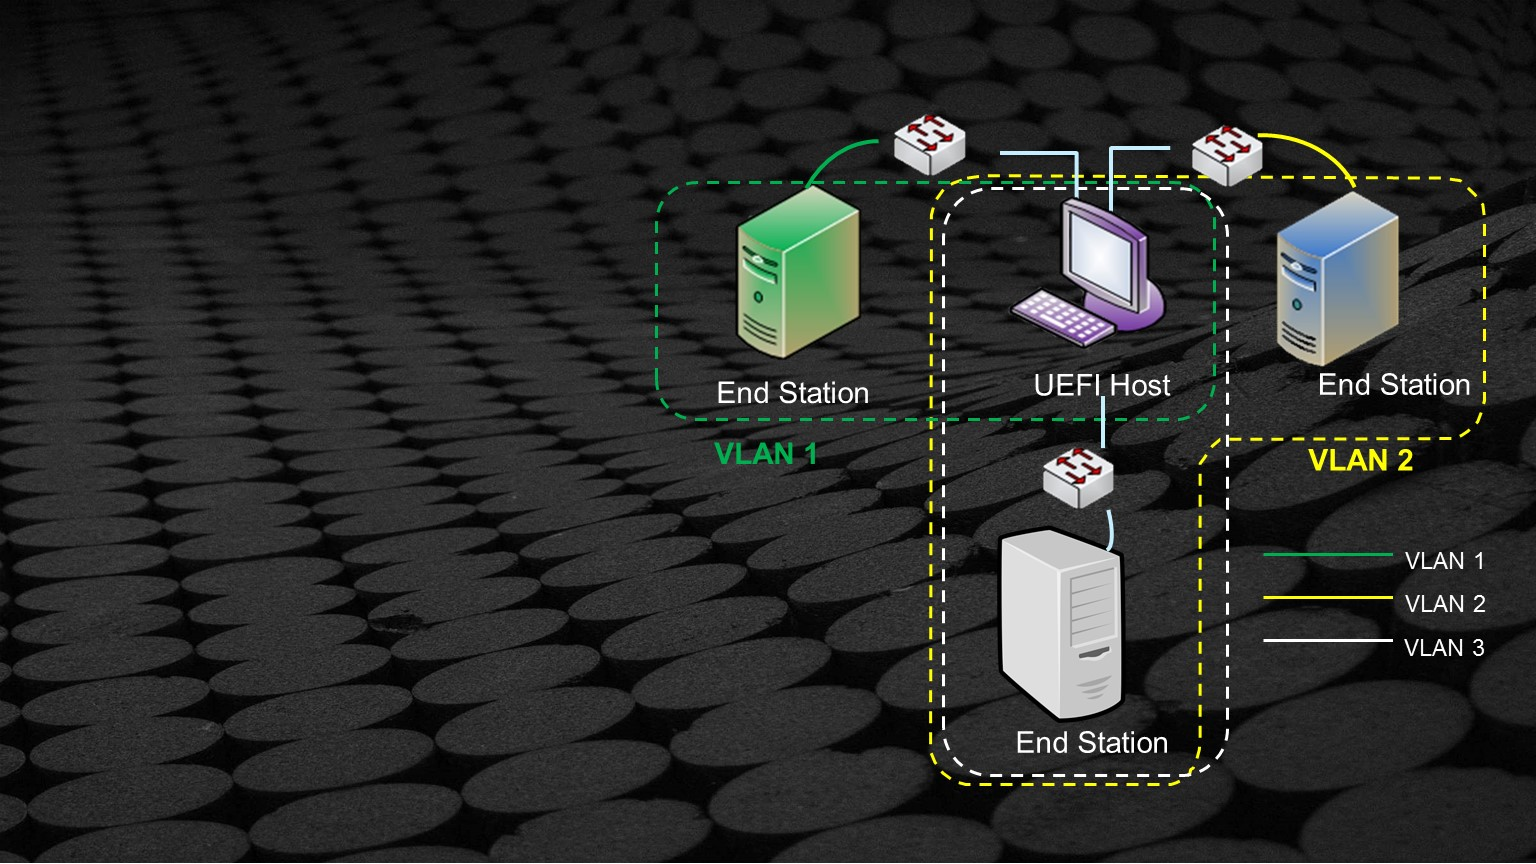
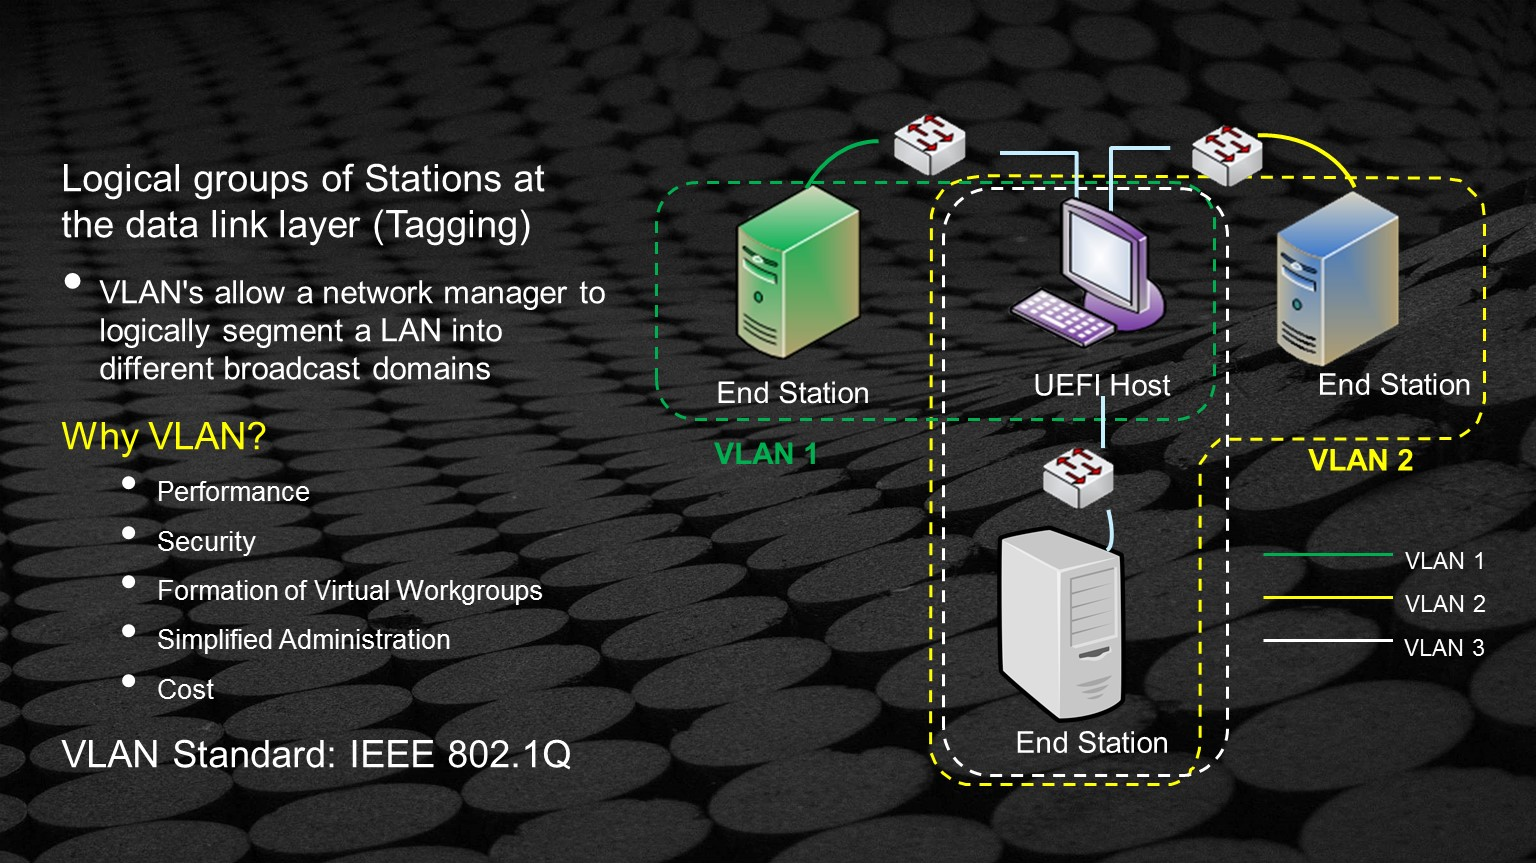
Signed-off-by: Laurie0131 <laurie.jarlstrom@intel.com>

diff --git a/PITCHME.md b/PITCHME.md
@@ -558,26 +558,11 @@ ports.
 <!-- .slide: data-transition="none" -->
 @title[Virtual LAN  - VLAN 02]
 <p align="center"><span class="gold" ><b>Virtual LAN  - VLAN</b></span></p>
-<div class="left-1">
-<ul>
- <li><span style="font-size:0.7em" >Logical groups of Stations at the data link layer (Tagging)</span></li>
-  <ul>
-    <li><span style="font-size:0.6em" >VLAN's allow a network manager to logically segment a LAN into different broadcast domains  : <a href="http://www.cse.wustl.edu/~jain/cis788-97/ftp/virtual_lans/#WhatVLAN">Link</a> </span></li>
-  </ul>
- <li><span style="font-size:0.7em" >Why VLAN?</span></li>
-  <ul>
-     <li><span style="font-size:0.6em" >Performance</span></li>
-     <li><span style="font-size:0.6em" >Security</span></li>
-     <li><span style="font-size:0.6em" >Formation of Virtual Workgroups</span></li>
-     <li><span style="font-size:0.6em" >Simplified Administration</span></li>
-     <li><span style="font-size:0.6em" >Cost</span></li>
-  </ul>
- <li><span style="font-size:0.7em" >VLAN Standard: IEEE 802.1Q </span></li>
-</ul>
-</div>
-<div class="right-1">
-<span style="font-size:0.8em" >&nbsp;  </span>
-</div>
+<br>
+<br>
+<br>
+<span style="font-size:0.6em" >&nbsp; &nbsp; &nbsp; &nbsp; &nbsp; &nbsp; &nbsp; &nbsp; &nbsp; &nbsp; &nbsp; &nbsp; &nbsp; &nbsp; &nbsp; &nbsp; &nbsp;&nbsp; &nbsp; &nbsp; &nbsp; &nbsp; &nbsp; &nbsp; &nbsp; &nbsp; <a href="http://www.cse.wustl.edu/~jain/cis788-97/ftp/virtual_lans/#WhatVLAN">Link</a> </span>
+
 
 Note:
 
@@ -588,26 +573,11 @@ Note:
 <!-- .slide: data-transition="none" -->
 @title[Virtual LAN  - VLAN 03]
 <p align="center"><span class="gold" ><b>Virtual LAN  - VLAN</b></span></p>
-<div class="left-1">
-<ul>
- <li><span style="font-size:0.7em" >Logical groups of Stations at the data link layer (Tagging)</span></li>
-  <ul>
-    <li><span style="font-size:0.6em" >VLAN's allow a network manager to logically segment a LAN into different broadcast domains  : <a href="http://www.cse.wustl.edu/~jain/cis788-97/ftp/virtual_lans/#WhatVLAN">Link</a> </span></li>
-  </ul>
- <li><span style="font-size:0.7em" >Why VLAN?</span></li>
-  <ul>
-     <li><span style="font-size:0.6em" >Performance</span></li>
-     <li><span style="font-size:0.6em" >Security</span></li>
-     <li><span style="font-size:0.6em" >Formation of Virtual Workgroups</span></li>
-     <li><span style="font-size:0.6em" >Simplified Administration</span></li>
-     <li><span style="font-size:0.6em" >Cost</span></li>
-  </ul>
- <li><span style="font-size:0.7em" >VLAN Standard: IEEE 802.1Q </span></li>
-</ul>
-</div>
-<div class="right-1">
-<span style="font-size:0.8em" >&nbsp;  </span>
-</div>
+<br>
+<br>
+<br>
+<span style="font-size:0.6em" >&nbsp; &nbsp; &nbsp; &nbsp; &nbsp; &nbsp; &nbsp; &nbsp; &nbsp; &nbsp; &nbsp; &nbsp; &nbsp; &nbsp; &nbsp; &nbsp; &nbsp;&nbsp; &nbsp; &nbsp; &nbsp; &nbsp; &nbsp; &nbsp; &nbsp; &nbsp; <a href="http://www.cse.wustl.edu/~jain/cis788-97/ftp/virtual_lans/#WhatVLAN">Link</a> </span>
+
 
 Note:
 
@@ -618,26 +588,12 @@ Note:
 <!-- .slide: data-transition="none" -->
 @title[Virtual LAN  - VLAN 04]
 <p align="center"><span class="gold" ><b>Virtual LAN  - VLAN</b></span></p>
-<div class="left-1">
-<ul>
- <li><span style="font-size:0.7em" >Logical groups of Stations at the data link layer (Tagging)</span></li>
-  <ul>
-    <li><span style="font-size:0.6em" >VLAN's allow a network manager to logically segment a LAN into different broadcast domains  : <a href="http://www.cse.wustl.edu/~jain/cis788-97/ftp/virtual_lans/#WhatVLAN">Link</a> </span></li>
-  </ul>
- <li><span style="font-size:0.7em" >Why VLAN?</span></li>
-  <ul>
-     <li><span style="font-size:0.6em" >Performance</span></li>
-     <li><span style="font-size:0.6em" >Security</span></li>
-     <li><span style="font-size:0.6em" >Formation of Virtual Workgroups</span></li>
-     <li><span style="font-size:0.6em" >Simplified Administration</span></li>
-     <li><span style="font-size:0.6em" >Cost</span></li>
-  </ul>
- <li><span style="font-size:0.7em" >VLAN Standard: IEEE 802.1Q </span></li>
-</ul>
-</div>
-<div class="right-1">
-<span style="font-size:0.8em" >&nbsp;  </span>
-</div>
+<br>
+<br>
+<br>
+<span style="font-size:0.6em" >&nbsp; &nbsp; &nbsp; &nbsp; &nbsp; &nbsp; &nbsp; &nbsp; &nbsp; &nbsp; &nbsp; &nbsp; &nbsp; &nbsp; &nbsp; &nbsp; &nbsp;&nbsp; &nbsp; &nbsp; &nbsp; &nbsp; &nbsp; &nbsp; &nbsp; &nbsp; <a href="http://www.cse.wustl.edu/~jain/cis788-97/ftp/virtual_lans/#WhatVLAN">Link</a> </span>
+
+
 
 Note:
 
@@ -648,26 +604,12 @@ Note:
 <!-- .slide: data-transition="none" -->
 @title[Virtual LAN  - VLAN 05]
 <p align="center"><span class="gold" ><b>Virtual LAN  - VLAN</b></span></p>
-<div class="left-1">
-<ul>
- <li><span style="font-size:0.7em" >Logical groups of Stations at the data link layer (Tagging)</span></li>
-  <ul>
-    <li><span style="font-size:0.6em" >VLAN's allow a network manager to logically segment a LAN into different broadcast domains  : <a href="http://www.cse.wustl.edu/~jain/cis788-97/ftp/virtual_lans/#WhatVLAN">Link</a> </span></li>
-  </ul>
- <li><span style="font-size:0.7em" >Why VLAN?</span></li>
-  <ul>
-     <li><span style="font-size:0.6em" >Performance</span></li>
-     <li><span style="font-size:0.6em" >Security</span></li>
-     <li><span style="font-size:0.6em" >Formation of Virtual Workgroups</span></li>
-     <li><span style="font-size:0.6em" >Simplified Administration</span></li>
-     <li><span style="font-size:0.6em" >Cost</span></li>
-  </ul>
- <li><span style="font-size:0.7em" >VLAN Standard: IEEE 802.1Q </span></li>
-</ul>
-</div>
-<div class="right-1">
-<span style="font-size:0.8em" >&nbsp;  </span>
-</div>
+<br>
+<br>
+<br>
+<span style="font-size:0.6em" >&nbsp; &nbsp; &nbsp; &nbsp; &nbsp; &nbsp; &nbsp; &nbsp; &nbsp; &nbsp; &nbsp; &nbsp; &nbsp; &nbsp; &nbsp; &nbsp; &nbsp;&nbsp; &nbsp; &nbsp; &nbsp; &nbsp; &nbsp; &nbsp; &nbsp; &nbsp; <a href="http://www.cse.wustl.edu/~jain/cis788-97/ftp/virtual_lans/#WhatVLAN">Link</a> </span>
+
+
 
 Note:
 
